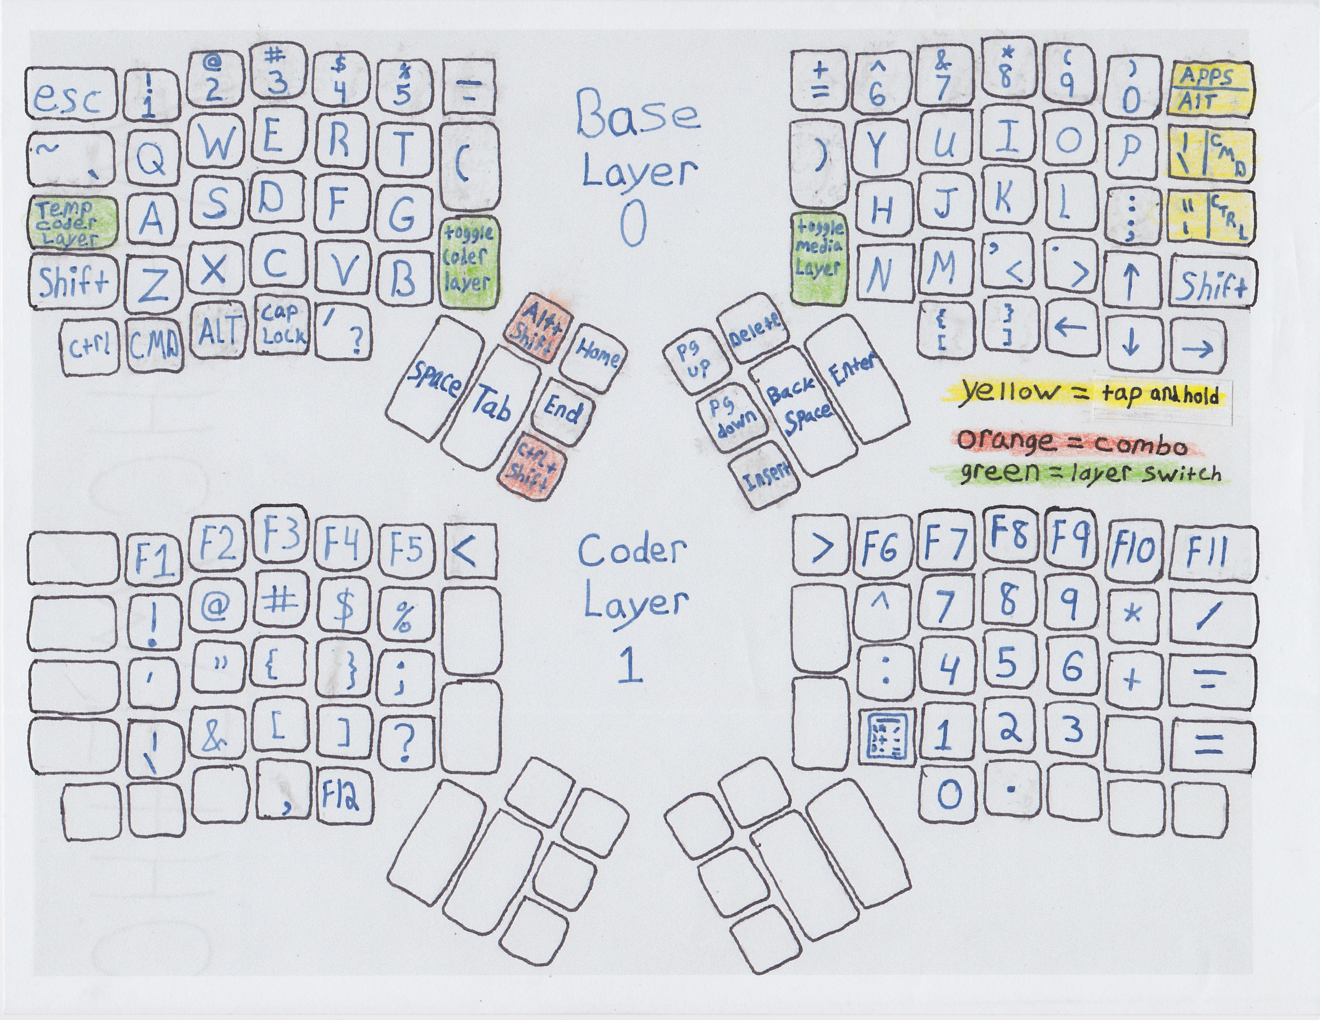
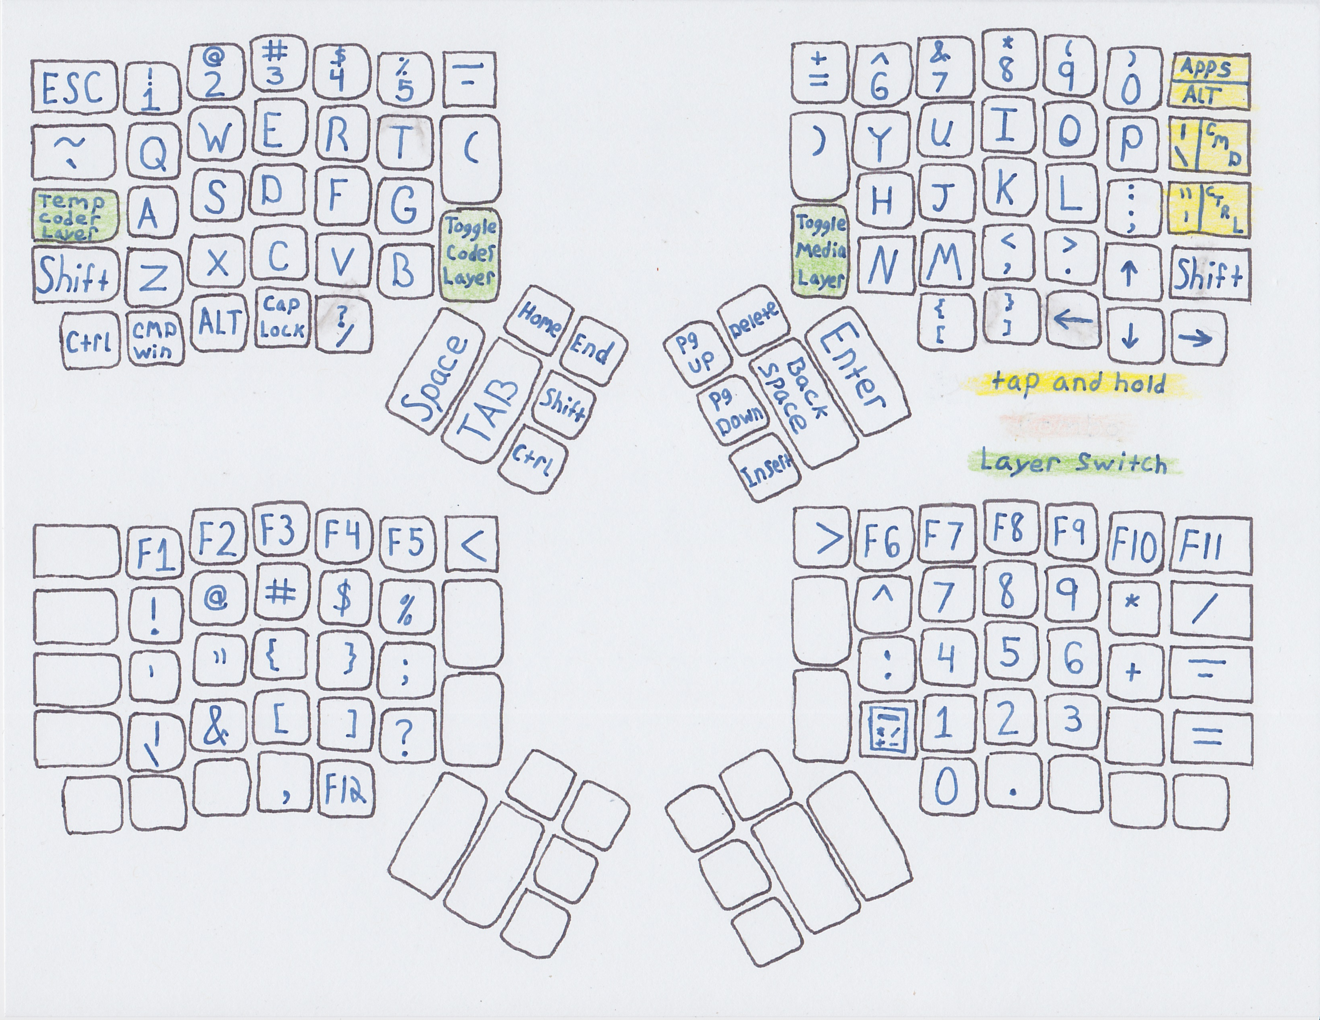
made changes

diff --git a/karrow2/readme.md b/karrow2/readme.md
@@ -2,8 +2,9 @@
 
 * What I did differently:
   * Three finger arrow keys
-  * traditional shift this forced the ?/ to be moved in a strange location. The V points to it if that helps.
-  * shift ctrl alt cmd/win easy to hit all at once. ctrl + shift(I do that a lot)
+  * The traditional shift forced ?/ to be moved in a strange location. The V points to it if that helps. V also points to f12.
+  * C points to caps lock and comma. cool?
+  * shift ctrl alt cmd/win easy to hit all at once. Had to have ctrl + shift so I removed alt + shift.
   * <-  +> that was unintintional the similes. There's more, it's neat how it all came together. 
   * Calculator layout in code layer(this is why f12 is at bottom)
   * !@#$%^ in code layer, like 123456
